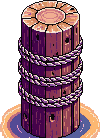
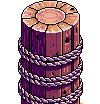
Harbor grounding pass: shore rocks under the deck, pilings over open water
The deck no longer floats: near-shore tiles sit on grey boulder footings,
open-water spans stand on discrete timber pilings under a slim beam skirt,
with a dark waterline reflection seating every exposed edge. Cropped the
baked-in stone plinth off the crane and the sand mounds off the bollard and
lantern art. Pulled the mooring posts, bell, one lantern and one bollard
back onto the deck (they rounded off it and stood in the water), moved the
second sloop into open water clear of the slipway, nudged the anchored
sloop off the breakwater and the pennant off its bollard. Calmed the deck
top to one low-frequency value drift (the per-tile noise printed a checker)
and trimmed the boardwalk to end at the last landing.

diff --git a/src/game/island/IslandMapIso.tsx b/src/game/island/IslandMapIso.tsx
@@ -1145,14 +1145,14 @@ export default function IslandMapIso() {
           const hb: Record<string, Texture> = {}
           for (const n of ['stone-block-a', 'stone-block-b', 'plank-block-a', 'crane', 'sloop', 'rowboat', 'warehouse', 'panther-statue', 'net-rack', 'beacon']) {
             try {
-              const t: Texture = await Assets.load(`/art/island/harbor/${n}.png?v=4`)
+              const t: Texture = await Assets.load(`/art/island/harbor/${n}.png?v=5`)
               t.source.scaleMode = 'nearest'; hb[n] = t
             } catch { /* not landed yet */ }
           }
           const pt: Record<string, Texture> = {}
           for (const n of ['bell-frame', 'cargo-a', 'lantern-post', 'bollard-a', 'harbor-shed', 'harbor-sign']) {
             try {
-              const t: Texture = await Assets.load(`/art/island/port/${n}.png`)
+              const t: Texture = await Assets.load(`/art/island/port/${n}.png?v=2`)
               t.source.scaleMode = 'nearest'; pt[n] = t
             } catch { /* */ }
           }
@@ -1174,12 +1174,38 @@ export default function IslandMapIso() {
               g2.moveTo(32, 0); g2.lineTo(64, 17); g2.lineTo(32, 34); g2.lineTo(0, 17); g2.closePath()
               g2.fillStyle = '#ae5f3f'
               g2.fill()
-              g2.strokeStyle = 'rgba(60,30,18,0.35)'
+              g2.strokeStyle = 'rgba(60,30,18,0.22)'
               g2.lineWidth = 1
               g2.beginPath(); g2.moveTo(16, 8.5); g2.lineTo(48, 25.5); g2.stroke()
             }
             const plankT = Texture.from(deckCv)
             const plankF = faceOf(hb['plank-block-a'])
+            // the beam FASCIA for open-piling tiles: a slim drawn band hugging
+            // the deck's two visible edges (the block face stretched to the
+            // drop filled the whole 14px air gap — a solid wall, no daylight)
+            const skirtCv = document.createElement('canvas')
+            skirtCv.width = 64; skirtCv.height = 42
+            {
+              const g3 = skirtCv.getContext('2d')!
+              g3.beginPath()
+              g3.moveTo(0, 17); g3.lineTo(32, 34); g3.lineTo(64, 17)
+              g3.lineTo(64, 23); g3.lineTo(32, 40); g3.lineTo(0, 23)
+              g3.closePath()
+              g3.fillStyle = '#6e4830'; g3.fill()
+              g3.strokeStyle = 'rgba(38,24,14,0.6)'; g3.lineWidth = 1
+              g3.beginPath(); g3.moveTo(0, 22.5); g3.lineTo(32, 39.5); g3.lineTo(64, 22.5); g3.stroke()
+            }
+            const skirtT = Texture.from(skirtCv)
+            // a timber PILING: a tiny drawn post, stretched per tile drop
+            const postCv = document.createElement('canvas')
+            postCv.width = 6; postCv.height = 24
+            {
+              const g3 = postCv.getContext('2d')!
+              g3.fillStyle = '#4a3323'; g3.fillRect(0, 0, 6, 24)
+              g3.fillStyle = '#6a4a30'; g3.fillRect(0, 0, 2, 24)
+              g3.fillStyle = '#2c1e13'; g3.fillRect(5, 0, 1, 24)
+            }
+            const postT = Texture.from(postCv)
             const isH = (x: number, y: number) => !!harborAt(x, y)
             for (const ht of HARBOR.tiles) {
               const bx2 = isoX(ht.tx, ht.ty), byTop = isoY(ht.tx, ht.ty) + GY - ht.lift
@@ -1209,23 +1235,91 @@ export default function IslandMapIso() {
                   world.addChild(fm)
                 }
               } else {
-                // the deck column: the block's own face rows under the top, one
-                // strip stretched to the exact drop + a 12px wet foot underwater;
-                // fronting structure tiles' tops mask interior faces (painter law)
-                const face = new Sprite(ht.mat === 'stone' ? stoneF : plankF)
-                face.anchor.set(0.5, 0)
-                face.position.set(bx2, byTop)
-                const need = ht.lift + 14 + 18
-                face.scale.y = need / 46
-                // the under-deck is in shade: a dark timber tint mutes the block
-                // art's striping into a natural shadowed underside; a light value
-                // drift breaks the repeat along long wall runs
-                if (ht.mat === 'plank') {
-                  const dv = 0.9 + 0.18 * vnoise(ht.tx / 2.1 + 3, ht.ty / 2.1 + 7)
-                  face.tint = (Math.min(255, Math.round(0x9a * dv)) << 16) | (Math.min(255, Math.round(0x85 * dv)) << 8) | Math.min(255, Math.round(0x70 * dv))
+                // ---- THE UNDERSTRUCTURE, graded by distance from shore (Ash:
+                // "the harbor is elevated and sits on rocks for a bit, but as it
+                // goes further out the rocks disappear and it becomes beams").
+                // Near-shore tiles stand on a ROCK footing; open-water tiles
+                // stand on timber PILINGS under a beam fascia. Only the screen-S
+                // and screen-E sides can show — a same-or-higher deck neighbor
+                // masks its side, so interior tiles draw no understructure.
+                const ds2 = coastDs(ht.tx, ht.ty)
+                const onRock = ds2 > -1.5
+                const exposed = ([[1, 0], [0, 1]] as [number, number][]).filter(([ox, oy]) => {
+                  const nb = harborAt(ht.tx + ox, ht.ty + oy)
+                  return !(nb && nb.mat !== 'rock' && nb.lift >= ht.lift)
+                })
+                // a dark waterline reflection under every exposed edge seats
+                // the whole structure ON the sea instead of hovering over it
+                for (const [ox, oy] of exposed) {
+                  if (dsAt(ht.tx + ox, ht.ty + oy) > 0) continue   // sand takes no reflection
+                  const rx = ht.tx + ox * 0.62, ry2 = ht.ty + oy * 0.62
+                  const rf = new Sprite(shadTex); rf.anchor.set(0.5, 0.5)
+                  rf.width = 54; rf.height = 13; rf.alpha = 0.3; rf.tint = 0x0a2a30
+                  rf.position.set(isoX(rx, ry2), isoY(rx, ry2) + GY + 2)
+                  rf.zIndex = zB + 1
+                  world.addChild(rf)
                 }
-                face.zIndex = zB + 1
-                world.addChild(face)
+                if (exposed.length && (onRock || ht.mat === 'stone')) {
+                  // the shore footing: the full shaded face down to the ground...
+                  const face = new Sprite(ht.mat === 'stone' ? stoneF : plankF)
+                  face.anchor.set(0.5, 0)
+                  face.position.set(bx2, byTop)
+                  const need = ht.lift + 14 + 18
+                  face.scale.y = need / 46
+                  if (ht.mat === 'plank') {
+                    const dv = 0.94 + 0.1 * vnoise(ht.tx / 4 + 3, ht.ty / 4 + 7)
+                    face.tint = (Math.min(255, Math.round(0x9a * dv)) << 16) | (Math.min(255, Math.round(0x85 * dv)) << 8) | Math.min(255, Math.round(0x70 * dv))
+                  }
+                  face.zIndex = zB + 1
+                  world.addChild(face)
+                  // ...with the island's own boulders piled against it, waist
+                  // deep in the sand/shallows, grey-wet like the breakwater
+                  const bT0 = vegT['boulder-1'], bT1 = vegT['boulder-2']
+                  if (bT0 || bT1) {
+                    for (const [ox, oy] of exposed) {
+                      const n2 = 1 + (hash(ht.tx * 5.3 + ox, ht.ty * 7.1 + oy) > 0.45 ? 1 : 0)
+                      for (let i = 0; i < n2; i++) {
+                        const along = (i === 0 ? -0.18 : 0.2) + (hash(ht.tx + i * 3.7, ht.ty * 2.9 + i) - 0.5) * 0.18
+                        const jx = ht.tx + ox * 0.34 + (ox ? 0 : along)
+                        const jy = ht.ty + oy * 0.34 + (oy ? 0 : along)
+                        const sp = new Sprite(i % 2 === 0 ? (bT1 ?? bT0!) : (bT0 ?? bT1!))
+                        sp.anchor.set(0.5, 0.8)
+                        sp.position.set(isoX(jx, jy), isoY(jx, jy) + GY + 5)
+                        const sc2 = 0.36 + 0.18 * hash(jx * 7.7, jy * 3.9)
+                        sp.scale.set((hash(jx, jy) > 0.5 ? -1 : 1) * sc2, sc2)
+                        sp.tint = hash(jx + 1, jy + 2) > 0.5 ? 0x9a9288 : 0x8d857b
+                        sp.zIndex = zB + 3
+                        world.addChild(sp)
+                      }
+                    }
+                  }
+                } else if (exposed.length) {
+                  // the open-water spans: a slim beam skirt hugs the deck edge,
+                  // discrete pilings drop into the water under it — daylight and
+                  // sea showing between the posts, a real pier's anatomy
+                  for (const [ox] of exposed) {
+                    const pts: [number, number][] = ox
+                      ? [[ht.tx + 0.4, ht.ty - 0.2], [ht.tx + 0.4, ht.ty + 0.24]]
+                      : [[ht.tx - 0.2, ht.ty + 0.4], [ht.tx + 0.24, ht.ty + 0.4]]
+                    for (const [px2, py2] of pts) {
+                      const sp = new Sprite(postT)
+                      sp.anchor.set(0.5, 1)
+                      sp.position.set(isoX(px2, py2), isoY(px2, py2) + GY + 14)
+                      sp.width = 6
+                      sp.height = ht.lift + 26
+                      sp.zIndex = zB + 2
+                      world.addChild(sp)
+                    }
+                  }
+                  const skirt = new Sprite(skirtT)
+                  skirt.anchor.set(0.5, 0)
+                  skirt.position.set(bx2, byTop - 17)
+                  const dv = 0.9 + 0.16 * vnoise(ht.tx / 4 + 3, ht.ty / 4 + 7)
+                  const vv = Math.min(255, Math.round(255 * dv))
+                  skirt.tint = (vv << 16) | (vv << 8) | vv
+                  skirt.zIndex = zB + 3
+                  world.addChild(skirt)
+                }
                 const top = new Sprite(ht.mat === 'stone'
                   ? stoneT[Math.floor(hash(ht.tx * 2.7, ht.ty * 3.3) * 4) % 2 === 0 ? 0 : 1]
                   : plankT)
@@ -1233,8 +1327,9 @@ export default function IslandMapIso() {
                 top.position.set(bx2, byTop)
                 top.zIndex = zB + 5
                 if (ht.mat === 'plank') {
-                  // quiet per-tile value drift is ALL the top variation
-                  const dv = 0.93 + 0.12 * vnoise(ht.tx / 2.7 + 5, ht.ty / 2.7 + 9)
+                  // quiet LOW-FREQUENCY value drift is ALL the top variation —
+                  // the old per-tile noise printed a visible checker
+                  const dv = 0.97 + 0.05 * vnoise(ht.tx / 6 + 5, ht.ty / 6 + 9)
                   const vv = Math.min(255, Math.round(255 * dv))
                   top.tint = (vv << 16) | (vv << 8) | vv
                   top.scale.set(1.06)   // melt the seams like the land tops

diff --git a/src/game/island/hub-layout.ts b/src/game/island/hub-layout.ts
@@ -270,8 +270,10 @@ export function initHubLayout() {
       tiles.push(t)
     }
     // the boardwalk: two tiles deep over the shallows, spanning the WHOLE
-    // lagoon arc (Ash: bigger — a real port fronts its whole bay)
-    const y0 = ryMid - 14, y1 = ryMid + 11
+    // lagoon arc (Ash: bigger — a real port fronts its whole bay). The span
+    // ends AT the last landing so the south end reads intentional, not a
+    // finger left hanging past the final steps.
+    const y0 = ryMid - 14, y1 = ryMid + 10
     for (let y = y0; y <= y1; y++) {
       const wx = wxAt(y)
       push({ tx: wx + 1, ty: y, lift: 14, mat: 'plank', walk: true })
@@ -303,7 +305,6 @@ export function initHubLayout() {
       push({ tx: wx + 4, ty: ys, lift: 5, mat: 'plank', walk: true })
       push({ tx: wx + 5, ty: ys, lift: 1, mat: 'plank', walk: false })
     }
-    const wxn = wxAt(ryMid - 6)
     // the breakwater: a LONG boulder arm wrapping the basin from the NE, the
     // harbor beacon at its tip marking the entrance channel
     const BW: [number, number][] = [
@@ -319,13 +320,13 @@ export function initHubLayout() {
       root: [wxm, ryMid + 1],
       steps: [wxm, ryMid + 1],
       berth: [wxm + 7, ryMid - 3.4],            // the intro ship moors off the main pier's north face
-      bell: [wxm + 3.2, ryMid - 1.8],           // greets arrivals at the main pier root
+      bell: [wxm + 3.3, ryMid - 1.2],           // greets arrivals at the main pier root (ON the deck)
       crane: [wxAt(ryMid - 3) + 1.6, ryMid - 3.2],
       lanterns: [
         [wxAt(y0 + 2) + 2.2, y0 + 2], [wxAt(ryMid - 8) + 2.2, ryMid - 8],
         [wxAt(ryMid - 4) + 2.2, ryMid - 4], [wxm + 10.6, ryMid + 1.7],
         [wxAt(ryMid + 4) + 2.2, ryMid + 4], [wxs + 6.8, ryMid + 8.4],
-        [wxAt(y1 - 1) + 2.2, y1 - 1], [wxn + 6.3, ryMid - 6.7],
+        [wxAt(y1 - 1) + 2.2, y1 - 1], [wxm + 8, ryMid + 1.6],
       ],
       // the cargo YARD: stacked freight working the wharf knuckle + the pier root
       cargo: [
@@ -334,16 +335,18 @@ export function initHubLayout() {
         [wxAt(ryMid - 4.6) + 2.3, ryMid - 4.2],
         [wxs + 4.2, ryMid + 7.4],
       ],
-      sloop: [wxm + 9.6, ryMid - 7],            // riding at anchor in the breakwater's lee
-      sloop2: [wxm + 6.5, ryMid + 4.6],         // the second fisher, working the south water
+      sloop: [wxm + 8.4, ryMid - 6.2],          // riding at anchor in the breakwater's lee, clear of the rocks
+      sloop2: [wxm + 9.2, ryMid + 4.8],         // the second fisher in OPEN water south of the pier
       rowboat: [rawWx(ryMid + 10) - 0.6, ryMid + 10.4],  // hauled up on the sand
       beacon: [wxm + 8.6, ryMid - 9],           // the harbor light at the breakwater tip
-      pennant: [wxm + 11.4, ryMid - 1.6],       // the teal school pennant flies at the T-head
-      edgePosts: Array.from({ length: 9 }, (_, i) => {
+      pennant: [wxm + 11.5, ryMid + 0.3],       // the teal school pennant flies at the T-head's east lip
+      // mooring posts stand ON the deck's outer tile (+2.55 rounded PAST the
+      // deck, so every post dropped to sea level and stood in the water)
+      edgePosts: Array.from({ length: 8 }, (_, i) => {
         const y = y0 + 2 + i * 3
-        return [wxAt(y) + 2.55, y + 0.3] as [number, number]
+        return [wxAt(y) + 2.35, y + 0.3] as [number, number]
       }),
-      bollards: [[wxm + 10.7, ryMid - 1.7], [wxm + 10.7, ryMid + 0.9], [wxn + 6.2, ryMid - 5.4], [wxAt(ryMid + 9) + 2.3, ryMid + 9]],
+      bollards: [[wxm + 10.7, ryMid - 1.7], [wxm + 10.7, ryMid + 0.9], [wxAt(ryMid - 5) + 2.4, ryMid - 5.4], [wxAt(ryMid + 9) + 2.3, ryMid + 9]],
     }
   }
   LIGHTHOUSE = [CX + Math.cos(-1.78) * (coastR(-1.78) - 3.5), CY + Math.sin(-1.78) * (coastR(-1.78) - 3.5)]
